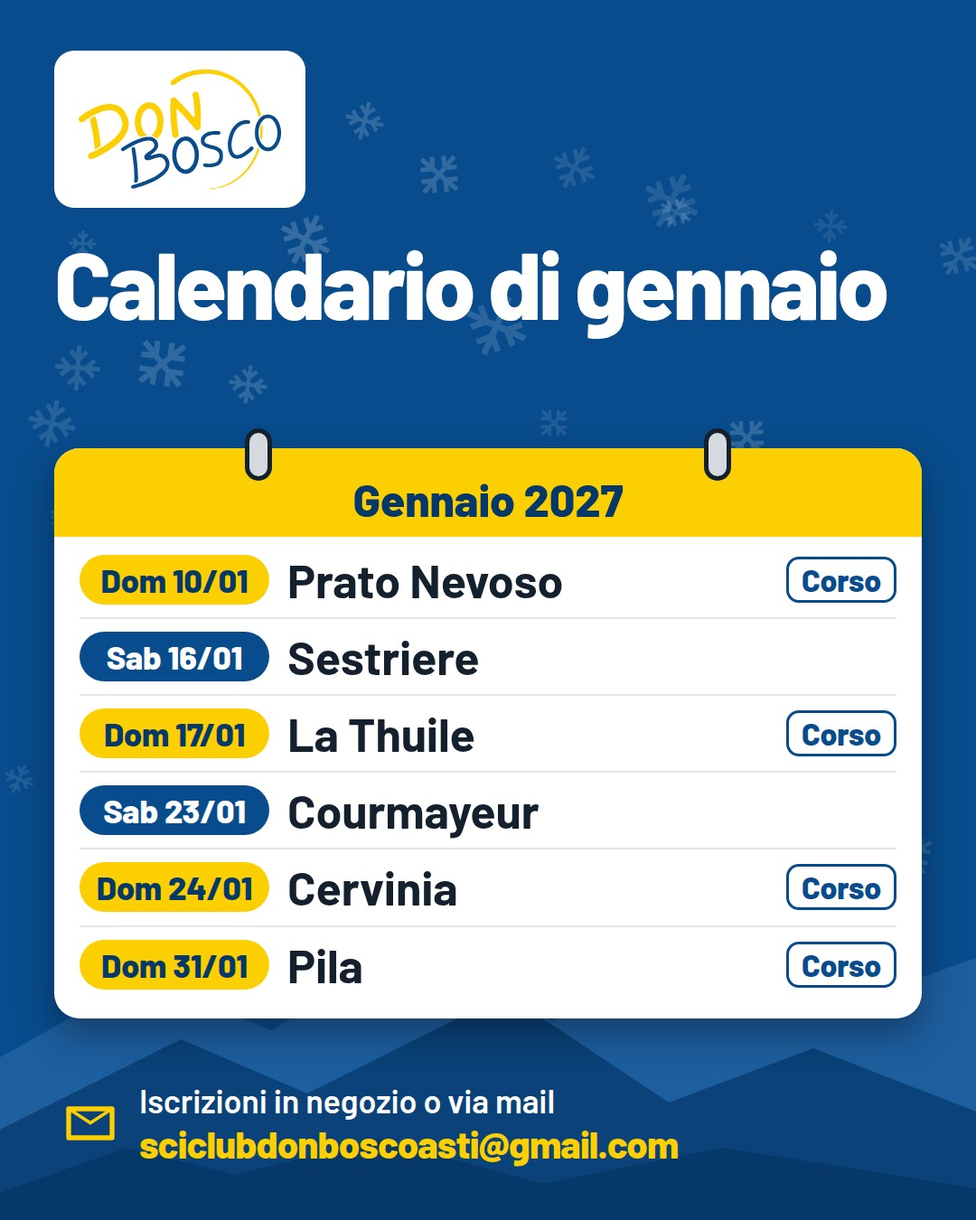
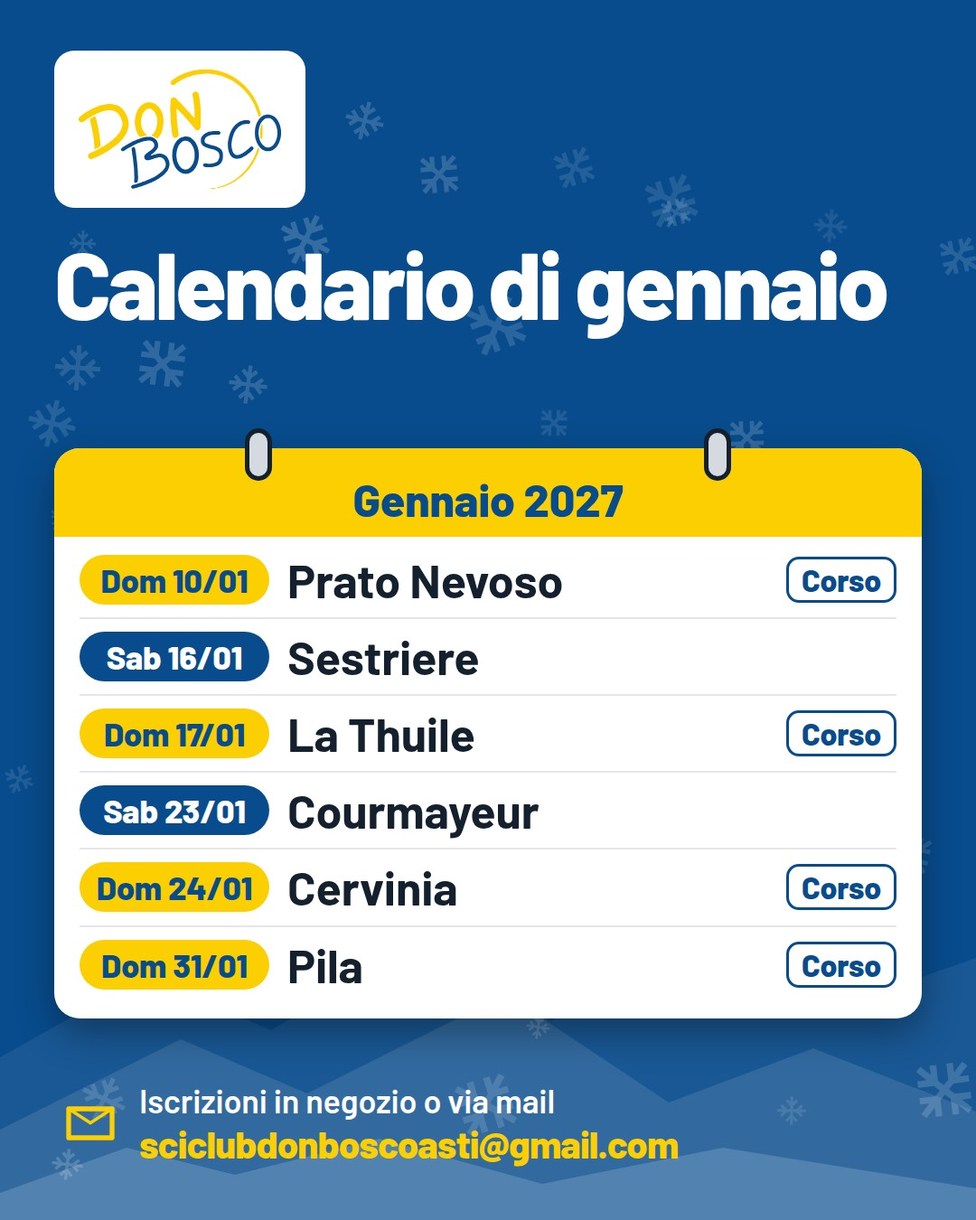
docs(social): un solo blu e un solo giallo, misure fisse per proposta [skip ci]
Le proposte usavano più blu (il blu scuro di fasce e testi di C, i blu delle
montagne e delle etichette di B) e il verde nel foglio del corso di B. Ora
in tutte un solo blu e un solo giallo, quelli del logo, più bianco e testo
scuro; le sfumature sono bianco trasparente sul blu e i riquadri in
evidenza sono gialli. In C niente più sfondo bianco nelle evidenze dei post
gialli: blu con la scritta gialla.

Misure fisse per ogni proposta, tenendo le più grandi: in B i dati a 56 px
in tutti i post (prima 50 o 64), il foglio della gita lungo come gli altri
anche senza l'ora; in C la gita ha la data sotto la fascia come corso ed
evento, con le stesse misure. Regole scritte nel README.

diff --git a/grafica/proposte-post-social/sorgenti/corso-c.html b/grafica/proposte-post-social/sorgenti/corso-c.html
@@ -12,7 +12,7 @@
  * palestra, fino a quando, per chi, iscrizioni e mail): il divano si stringe
  * per fare posto. Sul giallo si scrive solo blu scuro (brand-guidelines §1),
  * il logo sta su bianco (§3). */
-.cv { background: var(--giallo); color: var(--blu-dark); }
+.cv { background: var(--giallo); color: var(--blu); }
 .contenuto { position: absolute; left: 64px; right: 64px; top: 56px; bottom: 56px; display: flex; flex-direction: column; }
 html.story .contenuto { top: 262px; bottom: 352px; }
 
@@ -30,7 +30,7 @@ html.story .gancio { font-size: 176px; margin-top: 44px; }
 html.post .scena { flex: none; height: 180px; }
 .scena svg { position: absolute; inset: 0; width: 100%; height: 100%; }
 
-.nastro { flex: none; position: relative; z-index: 2; margin: 0 -110px; background: var(--blu-dark); color: #fff;
+.nastro { flex: none; position: relative; z-index: 2; margin: 0 -110px; background: var(--blu); color: #fff;
   transform: rotate(-2deg); text-align: center; font-size: 72px; font-weight: 800; letter-spacing: -.03em; padding: 16px 0 22px; white-space: nowrap;
   box-shadow: 0 10px 24px rgba(6,57,106,.3); }
 html.story .nastro { font-size: 88px; }
@@ -39,10 +39,9 @@ html.story .nastro { font-size: 88px; }
 html.post .info { flex: 1 1 auto; }
 .info .quando { font-size: 58px; font-weight: 800; letter-spacing: -.025em; line-height: 1.1; }
 .info .dove { font-size: 46px; font-weight: 700; margin-top: 8px; line-height: 1.15; }
-.info .poi { font-size: 40px; font-weight: 600; margin-top: 10px; line-height: 1.2; }
-.info .poi + .poi { margin-top: 4px; }
+.info .poi { font-size: 40px; font-weight: 600; margin-top: 8px; line-height: 1.2; }
 /* Orari e date evidenziati come col pennarello, come negli altri post di C. */
-.info b { font-weight: 800; background: #fff; padding: 0 .16em; border-radius: .14em; }
+.info b { font-weight: 800; background: var(--blu); color: var(--giallo); padding: 0 .16em; border-radius: .14em; }
 /* Iscrizioni e mail, come in fondo al biglietto di A. */
 .iscrizioni { flex: none; display: flex; gap: 20px; align-items: center; margin-top: 26px; padding-top: 22px;
   border-top: 4px dashed rgba(6,57,106,.35); }
@@ -68,17 +67,17 @@ html.story .iscrizioni svg { width: 70px; height: 70px; }
     <div class="scena">
       <!-- Il divano vuoto e gli sci appoggiati. -->
       <svg viewBox="0 0 780 370" preserveAspectRatio="xMidYMax meet" aria-hidden="true">
-        <ellipse cx="350" cy="352" rx="330" ry="14" fill="#06396A" opacity=".18"/>
+        <ellipse cx="350" cy="352" rx="330" ry="14" fill="#084C8D" opacity=".18"/>
         <rect x="72" y="300" width="28" height="48" rx="6" fill="#14202E"/>
         <rect x="560" y="300" width="28" height="48" rx="6" fill="#14202E"/>
         <rect x="80" y="56" width="500" height="196" rx="50" fill="#084C8D"/>
-        <rect x="118" y="86" width="206" height="118" rx="38" fill="#1D5E9E"/>
-        <rect x="336" y="86" width="206" height="118" rx="38" fill="#1D5E9E"/>
-        <rect x="40" y="222" width="580" height="92" rx="28" fill="#06396A"/>
-        <rect x="112" y="186" width="214" height="70" rx="26" fill="#2E6DB0"/>
-        <rect x="334" y="186" width="214" height="70" rx="26" fill="#2E6DB0"/>
-        <rect x="18" y="138" width="104" height="176" rx="48" fill="#06396A"/>
-        <rect x="538" y="138" width="104" height="176" rx="48" fill="#06396A"/>
+        <rect x="118" y="86" width="206" height="118" rx="38" fill="#fff" fill-opacity=".16"/>
+        <rect x="336" y="86" width="206" height="118" rx="38" fill="#fff" fill-opacity=".16"/>
+        <rect x="40" y="222" width="580" height="92" rx="28" fill="#084C8D"/>
+        <rect x="112" y="186" width="214" height="70" rx="26" fill="#fff" fill-opacity=".28"/>
+        <rect x="334" y="186" width="214" height="70" rx="26" fill="#fff" fill-opacity=".28"/>
+        <rect x="18" y="138" width="104" height="176" rx="48" fill="#084C8D"/>
+        <rect x="538" y="138" width="104" height="176" rx="48" fill="#084C8D"/>
         <!-- Il telecomando lasciato sul cuscino: qualcuno si è appena alzato. -->
         <g transform="rotate(-10 215 205)">
           <rect x="160" y="190" width="110" height="30" rx="12" fill="#14202E"/>
@@ -106,7 +105,7 @@ html.story .iscrizioni svg { width: 70px; height: 70px; }
       <div class="poi">Lezioni di un'ora · soci tesserati e assicurati</div>
     </div>
     <div class="iscrizioni">
-      <svg viewBox="0 0 24 24" fill="#06396A" aria-hidden="true"><path d="M3 5h18a1 1 0 0 1 1 1v12a1 1 0 0 1-1 1H3a1 1 0 0 1-1-1V6a1 1 0 0 1 1-1zm1 2.4V17h16V7.4l-8 5.3-8-5.3zM5.8 7 12 11.1 18.2 7H5.8z"/></svg>
+      <svg viewBox="0 0 24 24" fill="#084C8D" aria-hidden="true"><path d="M3 5h18a1 1 0 0 1 1 1v12a1 1 0 0 1-1 1H3a1 1 0 0 1-1-1V6a1 1 0 0 1 1-1zm1 2.4V17h16V7.4l-8 5.3-8-5.3zM5.8 7 12 11.1 18.2 7H5.8z"/></svg>
       <div>Iscrizioni in negozio o via mail<b>sciclubdonboscoasti@gmail.com</b></div>
     </div>
   </div>

diff --git a/grafica/proposte-post-social/sorgenti/corso-b.html b/grafica/proposte-post-social/sorgenti/corso-b.html
@@ -37,28 +37,28 @@ html.story .iscrizioni b { font-size: 46px; }
 html.post .titolo { font-size: 104px; min-height: calc(2 * .95 * 104px); }
 
 .centro { display: flex; gap: calc(44px * var(--k)); align-items: center; }
-/* Il foglio: testata verde (il colore dei corsi), due anelli, il giorno grande. */
+/* Il foglio: testata gialla (il colore dei corsi), due anelli, il giorno grande. */
 .foglio { flex: none; width: calc(430px * var(--k)); background: #fff; border-radius: 28px; text-align: center;
   position: relative; box-shadow: 0 16px 40px rgba(0,0,0,.35); transform: rotate(-2deg); }
-.foglio .mese { background: var(--verde); color: #fff; font-size: calc(46px * var(--k)); font-weight: 800;
+.foglio .mese { background: var(--giallo); color: var(--blu); font-size: calc(46px * var(--k)); font-weight: 800;
   border-radius: 28px 28px 0 0; padding: calc(30px * var(--k)) 0 calc(14px * var(--k)); letter-spacing: -.01em; }
 .foglio .anello { position: absolute; top: calc(-22px * var(--k)); width: calc(30px * var(--k)); height: calc(58px * var(--k));
   border-radius: 15px; background: #D5DAE1; border: 5px solid #14202E; }
 .foglio .giorno { font-size: calc(48px * var(--k)); font-weight: 700; margin-top: calc(18px * var(--k)); }
-.foglio .num { font-size: calc(250px * var(--k)); font-weight: 800; line-height: .82; letter-spacing: -.05em; color: var(--verde); margin-top: calc(6px * var(--k)); }
+.foglio .num { font-size: calc(250px * var(--k)); font-weight: 800; line-height: .82; letter-spacing: -.05em; color: var(--blu); margin-top: calc(6px * var(--k)); }
 .foglio .ora { font-size: calc(58px * var(--k)); font-weight: 800; padding: calc(14px * var(--k)) 0 calc(28px * var(--k)); }
 .dove { color: #fff; min-width: 0; }
-.dove .et { color: #BFD7EC; font-size: calc(38px * var(--k)); font-weight: 700; }
-.dove .luogo { font-size: calc(64px * var(--k)); font-weight: 800; line-height: 1; letter-spacing: -.025em; margin-top: 8px; }
-.dove .nota { font-size: calc(40px * var(--k)); font-weight: 600; margin-top: 8px; line-height: 1.2; color: #E7EFF7; }
-.dove .chi { font-size: calc(46px * var(--k)); font-weight: 800; line-height: 1.05; letter-spacing: -.02em; margin-top: 8px; }
+.dove .et { color: #fff; font-size: calc(38px * var(--k)); font-weight: 600; }
+.dove .luogo { font-size: calc(56px * var(--k)); font-weight: 800; line-height: 1; letter-spacing: -.025em; margin-top: 8px; }
+.dove .nota { font-size: calc(40px * var(--k)); font-weight: 600; margin-top: 8px; line-height: 1.2; color: #fff; }
+.dove .chi { font-size: calc(56px * var(--k)); font-weight: 800; line-height: 1.05; letter-spacing: -.02em; margin-top: 8px; }
 .dove .et + .et, .dove .nota + .et { margin-top: calc(26px * var(--k)); }
 
 /* Fino a quando dura: una frase sola, senza date di pausa. */
-.durata { background: var(--blu-dark); border-radius: 28px; padding: calc(30px * var(--k)) 40px; color: #fff;
+.durata { background: var(--giallo); border-radius: 28px; padding: calc(30px * var(--k)) 40px; color: var(--blu);
   box-shadow: 0 12px 30px rgba(0,0,0,.3); }
-.durata .frase { font-size: calc(58px * var(--k)); font-weight: 800; letter-spacing: -.02em; line-height: 1.1; }
-.durata .frase em { font-style: normal; color: var(--giallo); }
+.durata .frase { font-size: calc(54px * var(--k)); font-weight: 800; letter-spacing: -.02em; line-height: 1.1; }
+.durata .frase em { font-style: normal; }
 
 /* Iscrizioni e mail, come in fondo al biglietto di A. */
 .iscrizioni { margin-top: auto; display: flex; gap: 22px; align-items: center; color: #fff; padding: 0 8px; }
@@ -72,9 +72,9 @@ html.post .titolo { font-size: 104px; min-height: calc(2 * .95 * 104px); }
   <div class="neve" data-neve=".18"></div>
   <!-- Montagne di sera, dal paesaggio di Montagna. -->
   <svg class="monti" viewBox="0 0 1080 330" preserveAspectRatio="xMidYMax slice" aria-hidden="true">
-    <polygon fill="#1D5E9E" points="0,150 160,60 300,120 470,20 610,110 770,10 910,100 1080,40 1080,330 0,330"/>
-    <polygon fill="#0A4279" points="0,230 200,130 340,190 560,80 740,200 900,140 1080,210 1080,330 0,330"/>
-    <polygon fill="#06396A" points="0,300 140,250 260,280 420,240 600,290 800,250 1080,295 1080,330 0,330"/>
+    <polygon fill="#fff" fill-opacity=".07" points="0,150 160,60 300,120 470,20 610,110 770,10 910,100 1080,40 1080,330 0,330"/>
+    <polygon fill="#fff" fill-opacity=".11" points="0,230 200,130 340,190 560,80 740,200 900,140 1080,210 1080,330 0,330"/>
+    <polygon fill="#fff" fill-opacity=".16" points="0,300 140,250 260,280 420,240 600,290 800,250 1080,295 1080,330 0,330"/>
   </svg>
   <div class="contenuto">
     <div class="testa">

diff --git a/grafica/proposte-post-social/sorgenti/gita-c.html b/grafica/proposte-post-social/sorgenti/gita-c.html
@@ -7,7 +7,7 @@
 <link rel="stylesheet" href="comune.css">
 <link rel="stylesheet" href="c.css">
 <!-- Gita di domenica: il giallo del giorno, scritto in blu scuro. -->
-<style>html { --cat: #FCCF02; --cat-ink: #06396A; }</style>
+<style>html { --cat: #FCCF02; --cat-ink: #084C8D; }</style>
 </head>
 <body>
 <div class="cv">
@@ -19,26 +19,27 @@
     <div class="scena">
       <!-- Il pullman della gita, con gli sci sul tetto. -->
       <svg viewBox="0 0 780 370" preserveAspectRatio="xMidYMax meet" aria-hidden="true">
-        <ellipse cx="390" cy="352" rx="350" ry="14" fill="#06396A" opacity=".18"/>
+        <ellipse cx="390" cy="352" rx="350" ry="14" fill="#084C8D" opacity=".18"/>
         <rect x="150" y="66" width="440" height="14" rx="7" fill="#14202E"/>
         <rect x="170" y="40" width="400" height="24" rx="12" fill="#14202E"/>
         <rect x="170" y="40" width="44" height="24" rx="12" fill="#fff"/>
         <rect x="190" y="14" width="400" height="24" rx="12" fill="#084C8D"/>
         <rect x="190" y="14" width="44" height="24" rx="12" fill="#fff"/>
         <rect x="60" y="86" width="660" height="236" rx="40" fill="#084C8D"/>
-        <rect x="96" y="118" width="96" height="92" rx="16" fill="#BFD7EC"/>
-        <rect x="210" y="118" width="96" height="92" rx="16" fill="#BFD7EC"/>
-        <rect x="324" y="118" width="96" height="92" rx="16" fill="#BFD7EC"/>
-        <rect x="438" y="118" width="96" height="92" rx="16" fill="#BFD7EC"/>
-        <path d="M560 118 H664 Q690 118 694 146 L700 210 H560 Z" fill="#E7EFF7"/>
+        <rect x="96" y="118" width="96" height="92" rx="16" fill="#fff"/>
+        <rect x="210" y="118" width="96" height="92" rx="16" fill="#fff"/>
+        <rect x="324" y="118" width="96" height="92" rx="16" fill="#fff"/>
+        <rect x="438" y="118" width="96" height="92" rx="16" fill="#fff"/>
+        <path d="M560 118 H664 Q690 118 694 146 L700 210 H560 Z" fill="#fff"/>
         <rect x="60" y="234" width="660" height="20" fill="#FCCF02"/>
         <rect x="680" y="262" width="40" height="22" rx="8" fill="#FCCF02"/>
         <circle cx="200" cy="322" r="44" fill="#14202E"/><circle cx="200" cy="322" r="18" fill="#D5DAE1"/>
         <circle cx="590" cy="322" r="44" fill="#14202E"/><circle cx="590" cy="322" r="18" fill="#D5DAE1"/>
       </svg>
     </div>
-    <div class="nastro">Gita di domenica 17 gennaio</div>
+    <div class="nastro">Gita sociale</div>
     <div class="info">
+      <div class="quando">Domenica 17 gennaio</div>
       <div class="riga">Partenze: <b>ore 6:30</b> Asti · <b>ore 6:45</b> Moncalvo</div>
       <div class="riga">Soci <b>€ 52</b> · non soci <b>€ 60</b></div>
       <div class="poi">Iscrizioni entro <b>giovedì 14 gennaio</b></div>

diff --git a/grafica/proposte-post-social/sorgenti/corso-a.html b/grafica/proposte-post-social/sorgenti/corso-a.html
@@ -66,7 +66,7 @@ html.story .fatti dd { font-size: 56px; }
 
 .firma { display: none; }
 html.story .firma { display: block; position: absolute; left: 0; right: 0; top: 1640px; text-align: center;
-  color: var(--blu-dark); font-size: 46px; font-weight: 800; letter-spacing: .12em; }
+  color: var(--blu); font-size: 46px; font-weight: 800; letter-spacing: .12em; }
 </style>
 </head>
 <body>
@@ -78,7 +78,7 @@ html.story .firma { display: block; position: absolute; left: 0; right: 0; top: 
            post ne mostra la parte bassa, la story tutto. -->
       <svg class="paesaggio" viewBox="0 0 1080 600" preserveAspectRatio="xMidYMax slice">
         <defs>
-          <linearGradient id="cielo" x1="0" y1="0" x2="0" y2="1"><stop offset="0" stop-color="#3E7CB8"/><stop offset=".75" stop-color="#BFD7EC"/></linearGradient>
+          <linearGradient id="cielo" x1="0" y1="0" x2="0" y2="1"><stop offset="0" stop-color="#3E7CB8"/><stop offset=".75" stop-color="#fff"/></linearGradient>
           <linearGradient id="neve" x1="0" y1="0" x2="0" y2="1"><stop offset="0" stop-color="#fff"/><stop offset="1" stop-color="#C9D7E4"/></linearGradient>
         </defs>
         <rect width="1080" height="600" fill="url(#cielo)"/>
@@ -91,12 +91,12 @@ html.story .firma { display: block; position: absolute; left: 0; right: 0; top: 
       <!-- La figura dell'esercizio: accosciata a braccia tese, la posizione dello sci, su un tappetino. -->
       <svg class="figura" viewBox="0 0 230 240" aria-hidden="true">
         <rect x="18" y="214" width="200" height="18" rx="9" fill="#FCCF02"/>
-        <g stroke="#06396A" stroke-width="24" stroke-linecap="round" stroke-linejoin="round" fill="none">
+        <g stroke="#084C8D" stroke-width="24" stroke-linecap="round" stroke-linejoin="round" fill="none">
           <path d="M120 70 L84 136"/>
           <path d="M114 82 L192 92"/>
           <path d="M84 136 L154 142 L140 206 L172 206"/>
         </g>
-        <circle cx="134" cy="38" r="25" fill="#06396A"/>
+        <circle cx="134" cy="38" r="25" fill="#084C8D"/>
       </svg>
       <div class="logo-box"><img src="../../logo/logo_sciclubdonbosco.svg" alt="Sci Club Don Bosco"></div>
       <div class="bollo"><div class="g">Mercoledì</div><div class="n">21/10</div></div>

diff --git a/grafica/proposte-post-social/sorgenti/calendario-b.html b/grafica/proposte-post-social/sorgenti/calendario-b.html
@@ -9,7 +9,7 @@
 <!-- Il calendario del mese: le gite in righe dentro il foglio a strappo, con la testata
      del mese. Senza la griglia dei giorni, che ripeteva le stesse date. -->
 <style>
-html { --cat: #FCCF02; --cat-ink: #06396A; }
+html { --cat: #FCCF02; --cat-ink: #084C8D; }
 .mese-intero { background: #fff; border-radius: 28px; box-shadow: 0 16px 40px rgba(0,0,0,.35); position: relative; padding-bottom: 18px; }
 .mese-intero .mese { background: var(--cat); color: var(--cat-ink); font-size: 50px; font-weight: 800; text-align: center;
   border-radius: 28px 28px 0 0; padding: 26px 0 12px; }
@@ -21,16 +21,16 @@ html { --cat: #FCCF02; --cat-ink: #06396A; }
 .righe .meta { font-size: 52px; font-weight: 700; line-height: 1.1; color: var(--testo); }
 /* Il corso contornato, non pieno: il giallo dei corsi si confonderebbe con la domenica. */
 .righe .corso { margin-left: auto; flex: none; font-size: 34px; font-weight: 800; color: var(--blu); border: 3px solid var(--blu); border-radius: 14px; padding: 2px 14px; }
-.dom { background: #FCCF02; color: #06396A; } .sab { background: #084C8D; color: #fff; }
+.dom { background: #FCCF02; color: #084C8D; } .sab { background: #084C8D; color: #fff; }
 </style>
 </head>
 <body>
 <div class="cv">
   <div class="neve" data-neve=".18"></div>
   <svg class="monti" viewBox="0 0 1080 330" preserveAspectRatio="xMidYMax slice" aria-hidden="true">
-    <polygon fill="#1D5E9E" points="0,150 160,60 300,120 470,20 610,110 770,10 910,100 1080,40 1080,330 0,330"/>
-    <polygon fill="#0A4279" points="0,230 200,130 340,190 560,80 740,200 900,140 1080,210 1080,330 0,330"/>
-    <polygon fill="#06396A" points="0,300 140,250 260,280 420,240 600,290 800,250 1080,295 1080,330 0,330"/>
+    <polygon fill="#fff" fill-opacity=".07" points="0,150 160,60 300,120 470,20 610,110 770,10 910,100 1080,40 1080,330 0,330"/>
+    <polygon fill="#fff" fill-opacity=".11" points="0,230 200,130 340,190 560,80 740,200 900,140 1080,210 1080,330 0,330"/>
+    <polygon fill="#fff" fill-opacity=".16" points="0,300 140,250 260,280 420,240 600,290 800,250 1080,295 1080,330 0,330"/>
   </svg>
   <div class="contenuto">
     <div class="testa">

diff --git a/grafica/proposte-post-social/sorgenti/b.css b/grafica/proposte-post-social/sorgenti/b.css
@@ -26,18 +26,21 @@
 .foglio .giorno { font-size: 48px; font-weight: 700; margin-top: 18px; }
 .foglio .num { font-size: 250px; font-weight: 800; line-height: .82; letter-spacing: -.05em; color: var(--cat-txt); margin-top: 6px; }
 .foglio .ora { font-size: 58px; font-weight: 800; padding: 14px 0 28px; }
+/* Senza ora (la gita) il foglio resta lungo uguale. */
+.foglio .ora:empty::before { content: "\a0"; }
 
 .dati { color: #fff; min-width: 0; }
 /* Etichette azzurre e valori bianchi; orari e prezzi in giallo, da trovare al volo. */
-.dati .et { color: #BFD7EC; font-size: 38px; font-weight: 700; }
+.dati .et { color: #fff; font-size: 38px; font-weight: 600; }
 .dati .v b { color: var(--giallo); }
 .dati .et ~ .et { margin-top: 26px; }
-.dati .v { font-size: 50px; font-weight: 800; line-height: 1.08; letter-spacing: -.02em; margin-top: 6px; }
-.dati .v small { font-size: 40px; font-weight: 600; color: #E7EFF7; letter-spacing: 0; }
+.dati .v { font-size: 56px; font-weight: 800; line-height: 1.08; letter-spacing: -.02em; margin-top: 6px; }
+.dati .v small { font-size: 40px; font-weight: 600; color: #fff; letter-spacing: 0; }
 
-.evidenza { background: var(--blu-dark); border-radius: 28px; padding: 28px 40px; color: #fff;
-  box-shadow: 0 12px 30px rgba(0,0,0,.3); font-size: 52px; font-weight: 800; letter-spacing: -.02em; line-height: 1.1; }
-.evidenza em { font-style: normal; color: var(--giallo); }
+/* Il riquadro in evidenza è giallo: un blu più scuro sul blu sarebbe un secondo blu. */
+.evidenza { background: var(--giallo); border-radius: 28px; padding: 28px 40px; color: var(--blu);
+  box-shadow: 0 12px 30px rgba(0,0,0,.3); font-size: 54px; font-weight: 800; letter-spacing: -.02em; line-height: 1.1; }
+.evidenza em { font-style: normal; }
 
 .iscrizioni { margin-top: auto; display: flex; gap: 22px; align-items: center; color: #fff; padding: 0 8px; }
 .iscrizioni svg { flex: none; width: 64px; height: 64px; }

diff --git a/grafica/proposte-post-social/sorgenti/c.css b/grafica/proposte-post-social/sorgenti/c.css
@@ -16,7 +16,7 @@
 .scena { flex: none; height: 180px; position: relative; z-index: 1; margin-bottom: -14px; }
 .scena svg { position: absolute; inset: 0; width: 100%; height: 100%; }
 
-.nastro { flex: none; position: relative; z-index: 2; margin: 0 -110px; background: var(--nastro, var(--blu-dark)); color: var(--nastro-ink, #fff);
+.nastro { flex: none; position: relative; z-index: 2; margin: 0 -110px; background: var(--nastro, var(--blu)); color: var(--nastro-ink, #fff);
   transform: rotate(-2deg); text-align: center; font-size: 72px; font-weight: 800; letter-spacing: -.03em; padding: 16px 0 22px; white-space: nowrap;
   box-shadow: 0 10px 24px rgba(6,57,106,.3); }
 
@@ -24,9 +24,9 @@
 .info .quando { font-size: 58px; font-weight: 800; letter-spacing: -.025em; line-height: 1.1; }
 .info .riga { font-size: 46px; font-weight: 700; margin-top: 8px; line-height: 1.15; }
 .info .poi { font-size: 40px; font-weight: 600; margin-top: 8px; line-height: 1.2; }
-/* Orari, prezzi e scadenze evidenziati come col pennarello: bianco sul giallo,
- * giallo sul blu (--evid-bg, --evid-ink nel singolo post). */
-.info b { font-weight: 800; background: var(--evid-bg, #fff); color: var(--evid-ink, var(--blu-dark)); padding: 0 .16em; border-radius: .14em;
+/* Orari, prezzi e scadenze evidenziati: blu con la scritta gialla sui post gialli,
+ * gialli sui post blu (--evid-bg, --evid-ink nel singolo post). */
+.info b { font-weight: 800; background: var(--evid-bg, var(--blu)); color: var(--evid-ink, var(--giallo)); padding: 0 .16em; border-radius: .14em;
   -webkit-box-decoration-break: clone; box-decoration-break: clone; }
 
 .iscrizioni { flex: none; display: flex; gap: 20px; align-items: center; margin-top: 24px; padding-top: 20px;

diff --git a/grafica/proposte-post-social/sorgenti/gita-b.html b/grafica/proposte-post-social/sorgenti/gita-b.html
@@ -7,17 +7,15 @@
 <link rel="stylesheet" href="comune.css">
 <link rel="stylesheet" href="b.css">
 <!-- Gita di domenica: testata gialla, il numero in blu (il giallo su bianco non si legge). -->
-<style>html { --cat: #FCCF02; --cat-ink: #06396A; --cat-txt: #06396A; }
-/* Senza l'ora: per la gita contano le partenze, accanto. */
-.foglio { padding-bottom: 34px; }</style>
+<style>html { --cat: #FCCF02; --cat-ink: #084C8D; --cat-txt: #084C8D; }</style>
 </head>
 <body>
 <div class="cv">
   <div class="neve" data-neve=".18"></div>
   <svg class="monti" viewBox="0 0 1080 330" preserveAspectRatio="xMidYMax slice" aria-hidden="true">
-    <polygon fill="#1D5E9E" points="0,150 160,60 300,120 470,20 610,110 770,10 910,100 1080,40 1080,330 0,330"/>
-    <polygon fill="#0A4279" points="0,230 200,130 340,190 560,80 740,200 900,140 1080,210 1080,330 0,330"/>
-    <polygon fill="#06396A" points="0,300 140,250 260,280 420,240 600,290 800,250 1080,295 1080,330 0,330"/>
+    <polygon fill="#fff" fill-opacity=".07" points="0,150 160,60 300,120 470,20 610,110 770,10 910,100 1080,40 1080,330 0,330"/>
+    <polygon fill="#fff" fill-opacity=".11" points="0,230 200,130 340,190 560,80 740,200 900,140 1080,210 1080,330 0,330"/>
+    <polygon fill="#fff" fill-opacity=".16" points="0,300 140,250 260,280 420,240 600,290 800,250 1080,295 1080,330 0,330"/>
   </svg>
   <div class="contenuto">
     <div class="testa">
@@ -30,6 +28,7 @@
         <div class="mese">Gennaio</div>
         <div class="giorno">Domenica</div>
         <div class="num">17</div>
+        <div class="ora"></div>
       </div>
       <div class="dati">
         <div class="et">Partenze</div>

diff --git a/grafica/proposte-post-social/sorgenti/evento-b.html b/grafica/proposte-post-social/sorgenti/evento-b.html
@@ -8,19 +8,17 @@
 <link rel="stylesheet" href="b.css">
 <!-- Evento: testata gialla e numero blu, come la gita (per ora solo giallo e blu). -->
 <style>
-html { --cat: #FCCF02; --cat-ink: #06396A; --cat-txt: #06396A; }
+html { --cat: #FCCF02; --cat-ink: #084C8D; --cat-txt: #084C8D; }
 .titolo small { display: block; font-size: 40px; font-weight: 700; letter-spacing: -.01em; color: var(--giallo); margin-top: 12px; line-height: 1.15; }
-.foglio { width: 400px; }
-.foglio .num { font-size: 230px; }
 </style>
 </head>
 <body>
 <div class="cv">
   <div class="neve" data-neve=".18"></div>
   <svg class="monti" viewBox="0 0 1080 330" preserveAspectRatio="xMidYMax slice" aria-hidden="true">
-    <polygon fill="#1D5E9E" points="0,150 160,60 300,120 470,20 610,110 770,10 910,100 1080,40 1080,330 0,330"/>
-    <polygon fill="#0A4279" points="0,230 200,130 340,190 560,80 740,200 900,140 1080,210 1080,330 0,330"/>
-    <polygon fill="#06396A" points="0,300 140,250 260,280 420,240 600,290 800,250 1080,295 1080,330 0,330"/>
+    <polygon fill="#fff" fill-opacity=".07" points="0,150 160,60 300,120 470,20 610,110 770,10 910,100 1080,40 1080,330 0,330"/>
+    <polygon fill="#fff" fill-opacity=".11" points="0,230 200,130 340,190 560,80 740,200 900,140 1080,210 1080,330 0,330"/>
+    <polygon fill="#fff" fill-opacity=".16" points="0,300 140,250 260,280 420,240 600,290 800,250 1080,295 1080,330 0,330"/>
   </svg>
   <div class="contenuto">
     <div class="testa">

diff --git a/grafica/proposte-post-social/sorgenti/calendario-c.html b/grafica/proposte-post-social/sorgenti/calendario-c.html
@@ -8,7 +8,7 @@
 <link rel="stylesheet" href="c.css">
 <!-- Calendario: blu del club con il giallo per gancio e nastro (categoria "cal"); le righe al posto del disegno. -->
 <style>
-html { --cat: #084C8D; --cat-ink: #fff; --gancio: #FCCF02; --nastro: #FCCF02; --nastro-ink: #06396A; }
+html { --cat: #084C8D; --cat-ink: #fff; --gancio: #FCCF02; --nastro: #FCCF02; --nastro-ink: #084C8D; }
 .nastro { margin-top: 34px; }
 .righe { flex: 1 1 auto; display: flex; flex-direction: column; justify-content: center; gap: 10px; margin-top: 26px; }
 .righe div { display: flex; align-items: center; gap: 20px; }
@@ -16,7 +16,7 @@ html { --cat: #084C8D; --cat-ink: #fff; --gancio: #FCCF02; --nastro: #FCCF02; --
 .meta { font-size: 54px; font-weight: 800; letter-spacing: -.02em; }
 .corso { margin-left: auto; display: flex; align-items: center; gap: 8px; font-size: 36px; font-weight: 800; color: var(--giallo); }
 .corso svg { width: 44px; height: 44px; }
-.dom { background: #FCCF02; color: #06396A; } .sab { background: #084C8D; color: #fff; }
+.dom { background: #FCCF02; color: #084C8D; } .sab { background: #084C8D; color: #fff; }
 .iscrizioni b { color: var(--giallo); }
 </style>
 </head>

diff --git a/grafica/proposte-post-social/sorgenti/comune.css b/grafica/proposte-post-social/sorgenti/comune.css
@@ -1,11 +1,11 @@
-/* Base comune delle tre proposte: i colori del logo (come web/brand.css) e
- * Barlow, il font dei post di web/social-templates.js. La tela è il post
- * 4:5 (1080×1350); con la classe "story" su <html> diventa 1080×1920. */
+/* Base comune delle tre proposte: Barlow, il font dei post di
+ * web/social-templates.js, e i colori. Regola: un solo blu e un solo giallo
+ * (quelli del logo), più il bianco e il testo scuro; le sfumature si fanno col
+ * bianco trasparente sul blu, non con altri blu. La tela è il post 4:5
+ * (1080×1350); con la classe "story" su <html> diventa 1080×1920. */
 :root {
   --blu: #084C8D;
-  --blu-dark: #06396A;
   --giallo: #FCCF02;
-  --verde: #147A45;      /* il colore della categoria "corso" */
   --testo: #14202E;
   --testo-soft: #4A5361;
   --filo: #C7D0DA;

diff --git a/grafica/proposte-post-social/sorgenti/evento-c.html b/grafica/proposte-post-social/sorgenti/evento-c.html
@@ -8,7 +8,7 @@
 <link rel="stylesheet" href="c.css">
 <!-- Evento: il blu del club, gancio e nastro gialli come il calendario; si brinda con lo spumante. -->
 <style>
-html { --cat: #084C8D; --cat-ink: #fff; --gancio: #FCCF02; --nastro: #FCCF02; --nastro-ink: #06396A; --evid-bg: transparent; --evid-ink: #FCCF02; }
+html { --cat: #084C8D; --cat-ink: #fff; --gancio: #FCCF02; --nastro: #FCCF02; --nastro-ink: #084C8D; --evid-bg: transparent; --evid-ink: #FCCF02; }
 .info .quando { font-size: 56px; }
 /* Il disegno accanto al gancio: sotto, i dati sono tanti e non gli lascerebbero posto. */
 .su { flex: none; display: flex; gap: 10px; margin-top: 28px; height: 450px; margin-bottom: -14px; }
